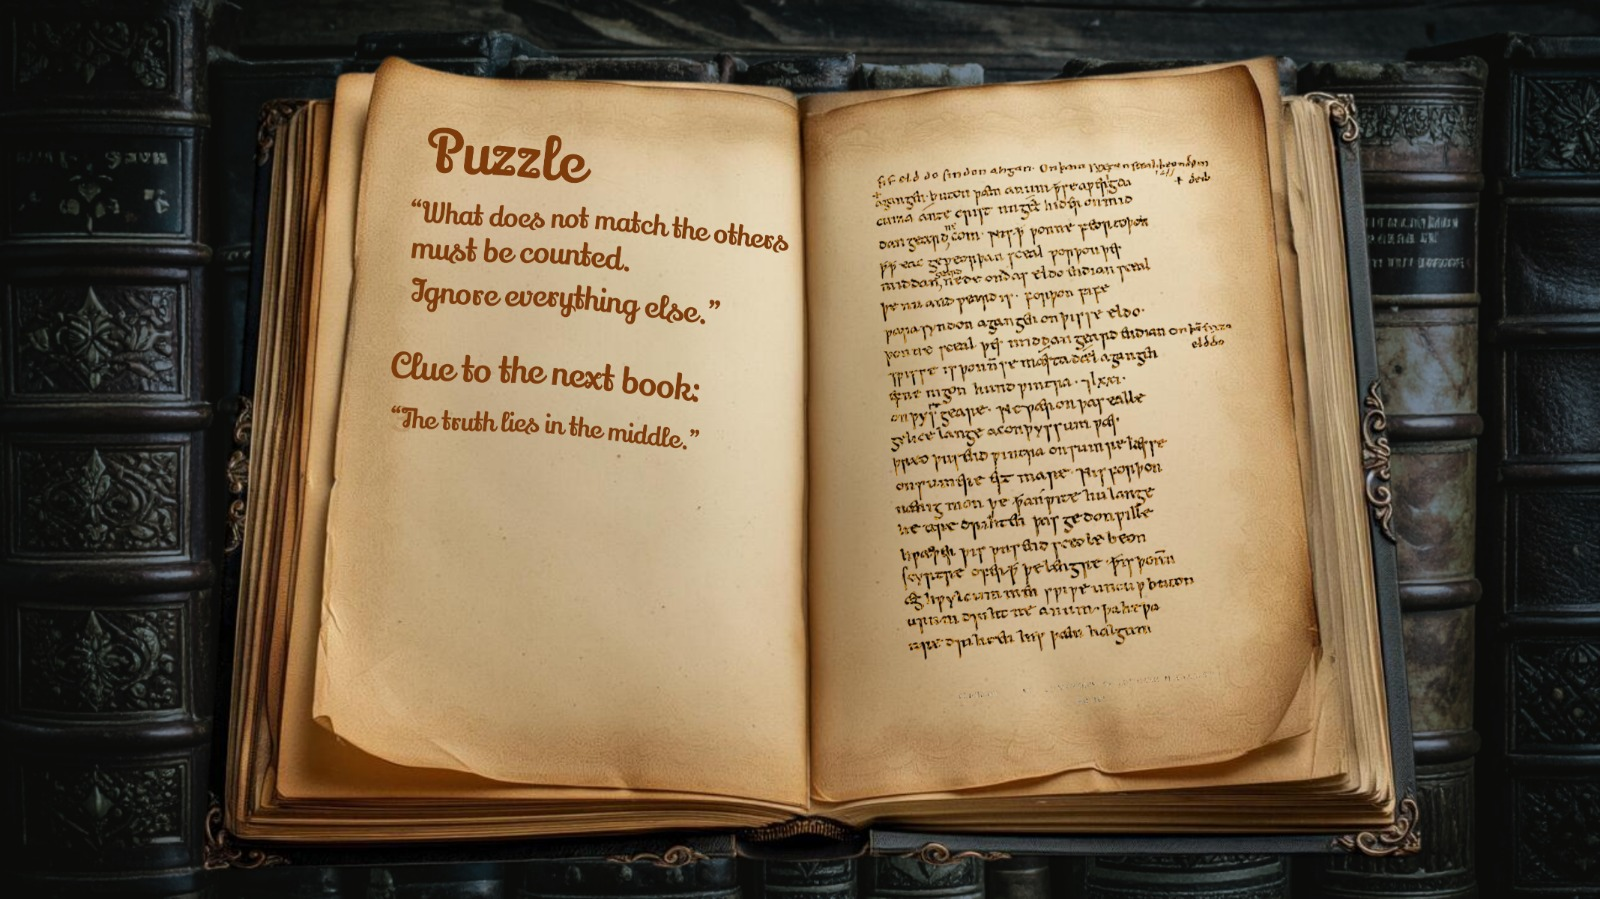
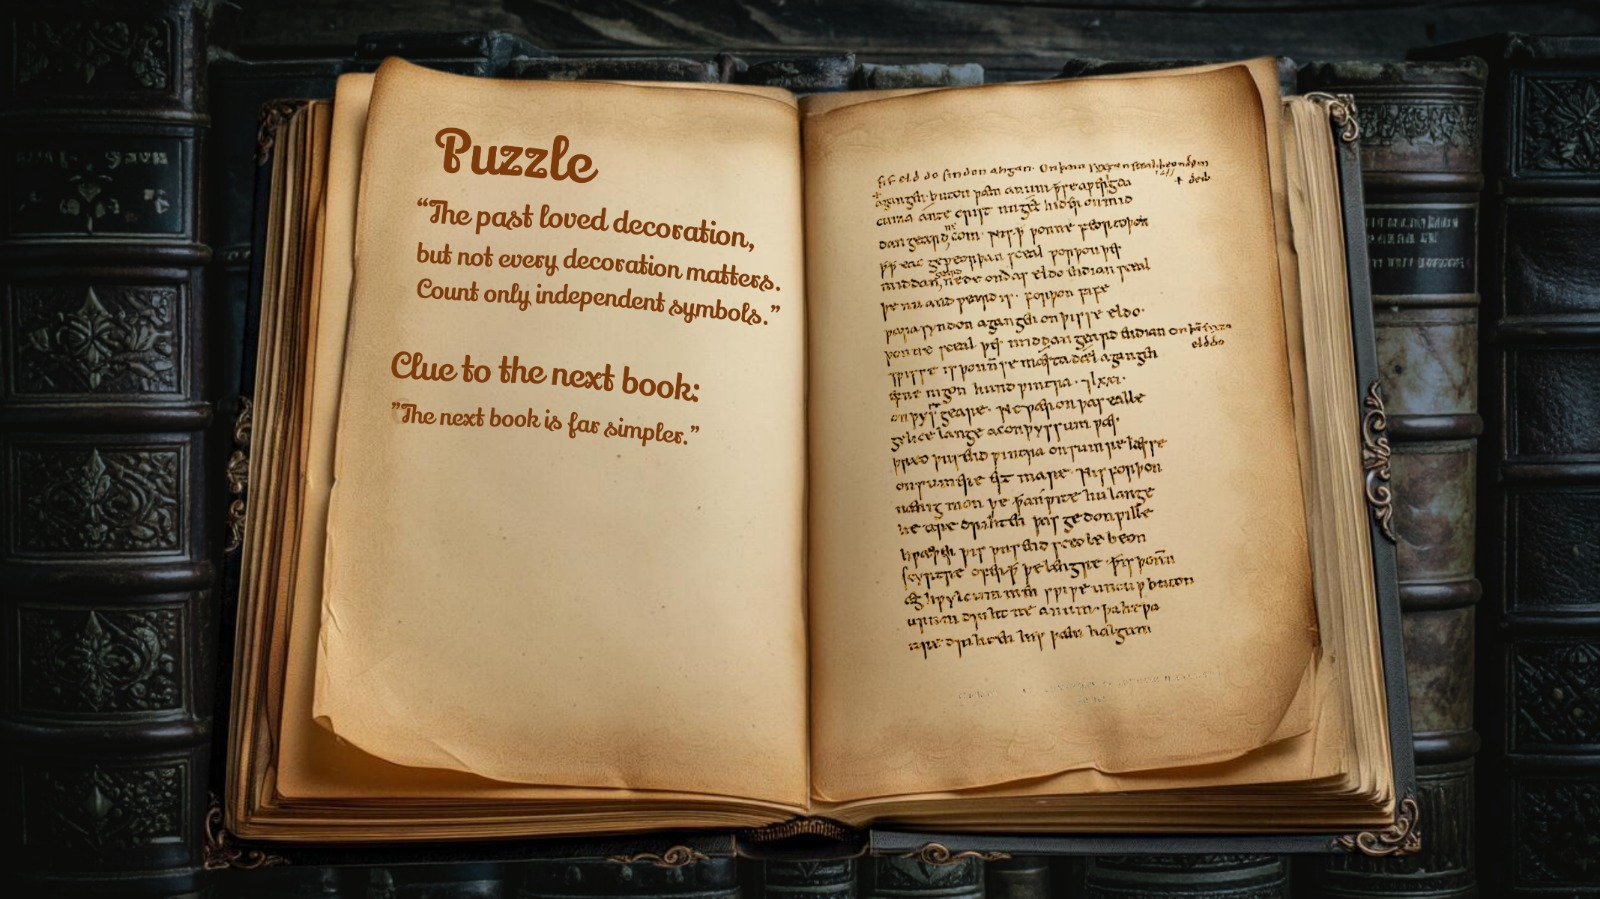
sdsd

Changed region(s): [[0.25, 0.1246, 0.5, 0.3737], [0.25, 0.436, 0.4375, 0.4983]]

diff --git a/Js/BookNum.js b/Js/BookNum.js
@@ -21,7 +21,7 @@ let collectedCode = [];
 
 const puzzleData = {
     2: {
-        img: "../pictures/open_book2.jpeg",
+        img: "../pictures/open_book2.png",
         hint: "The owl guards wisdom. Count only complete frames.",
         digit: 3
     },
